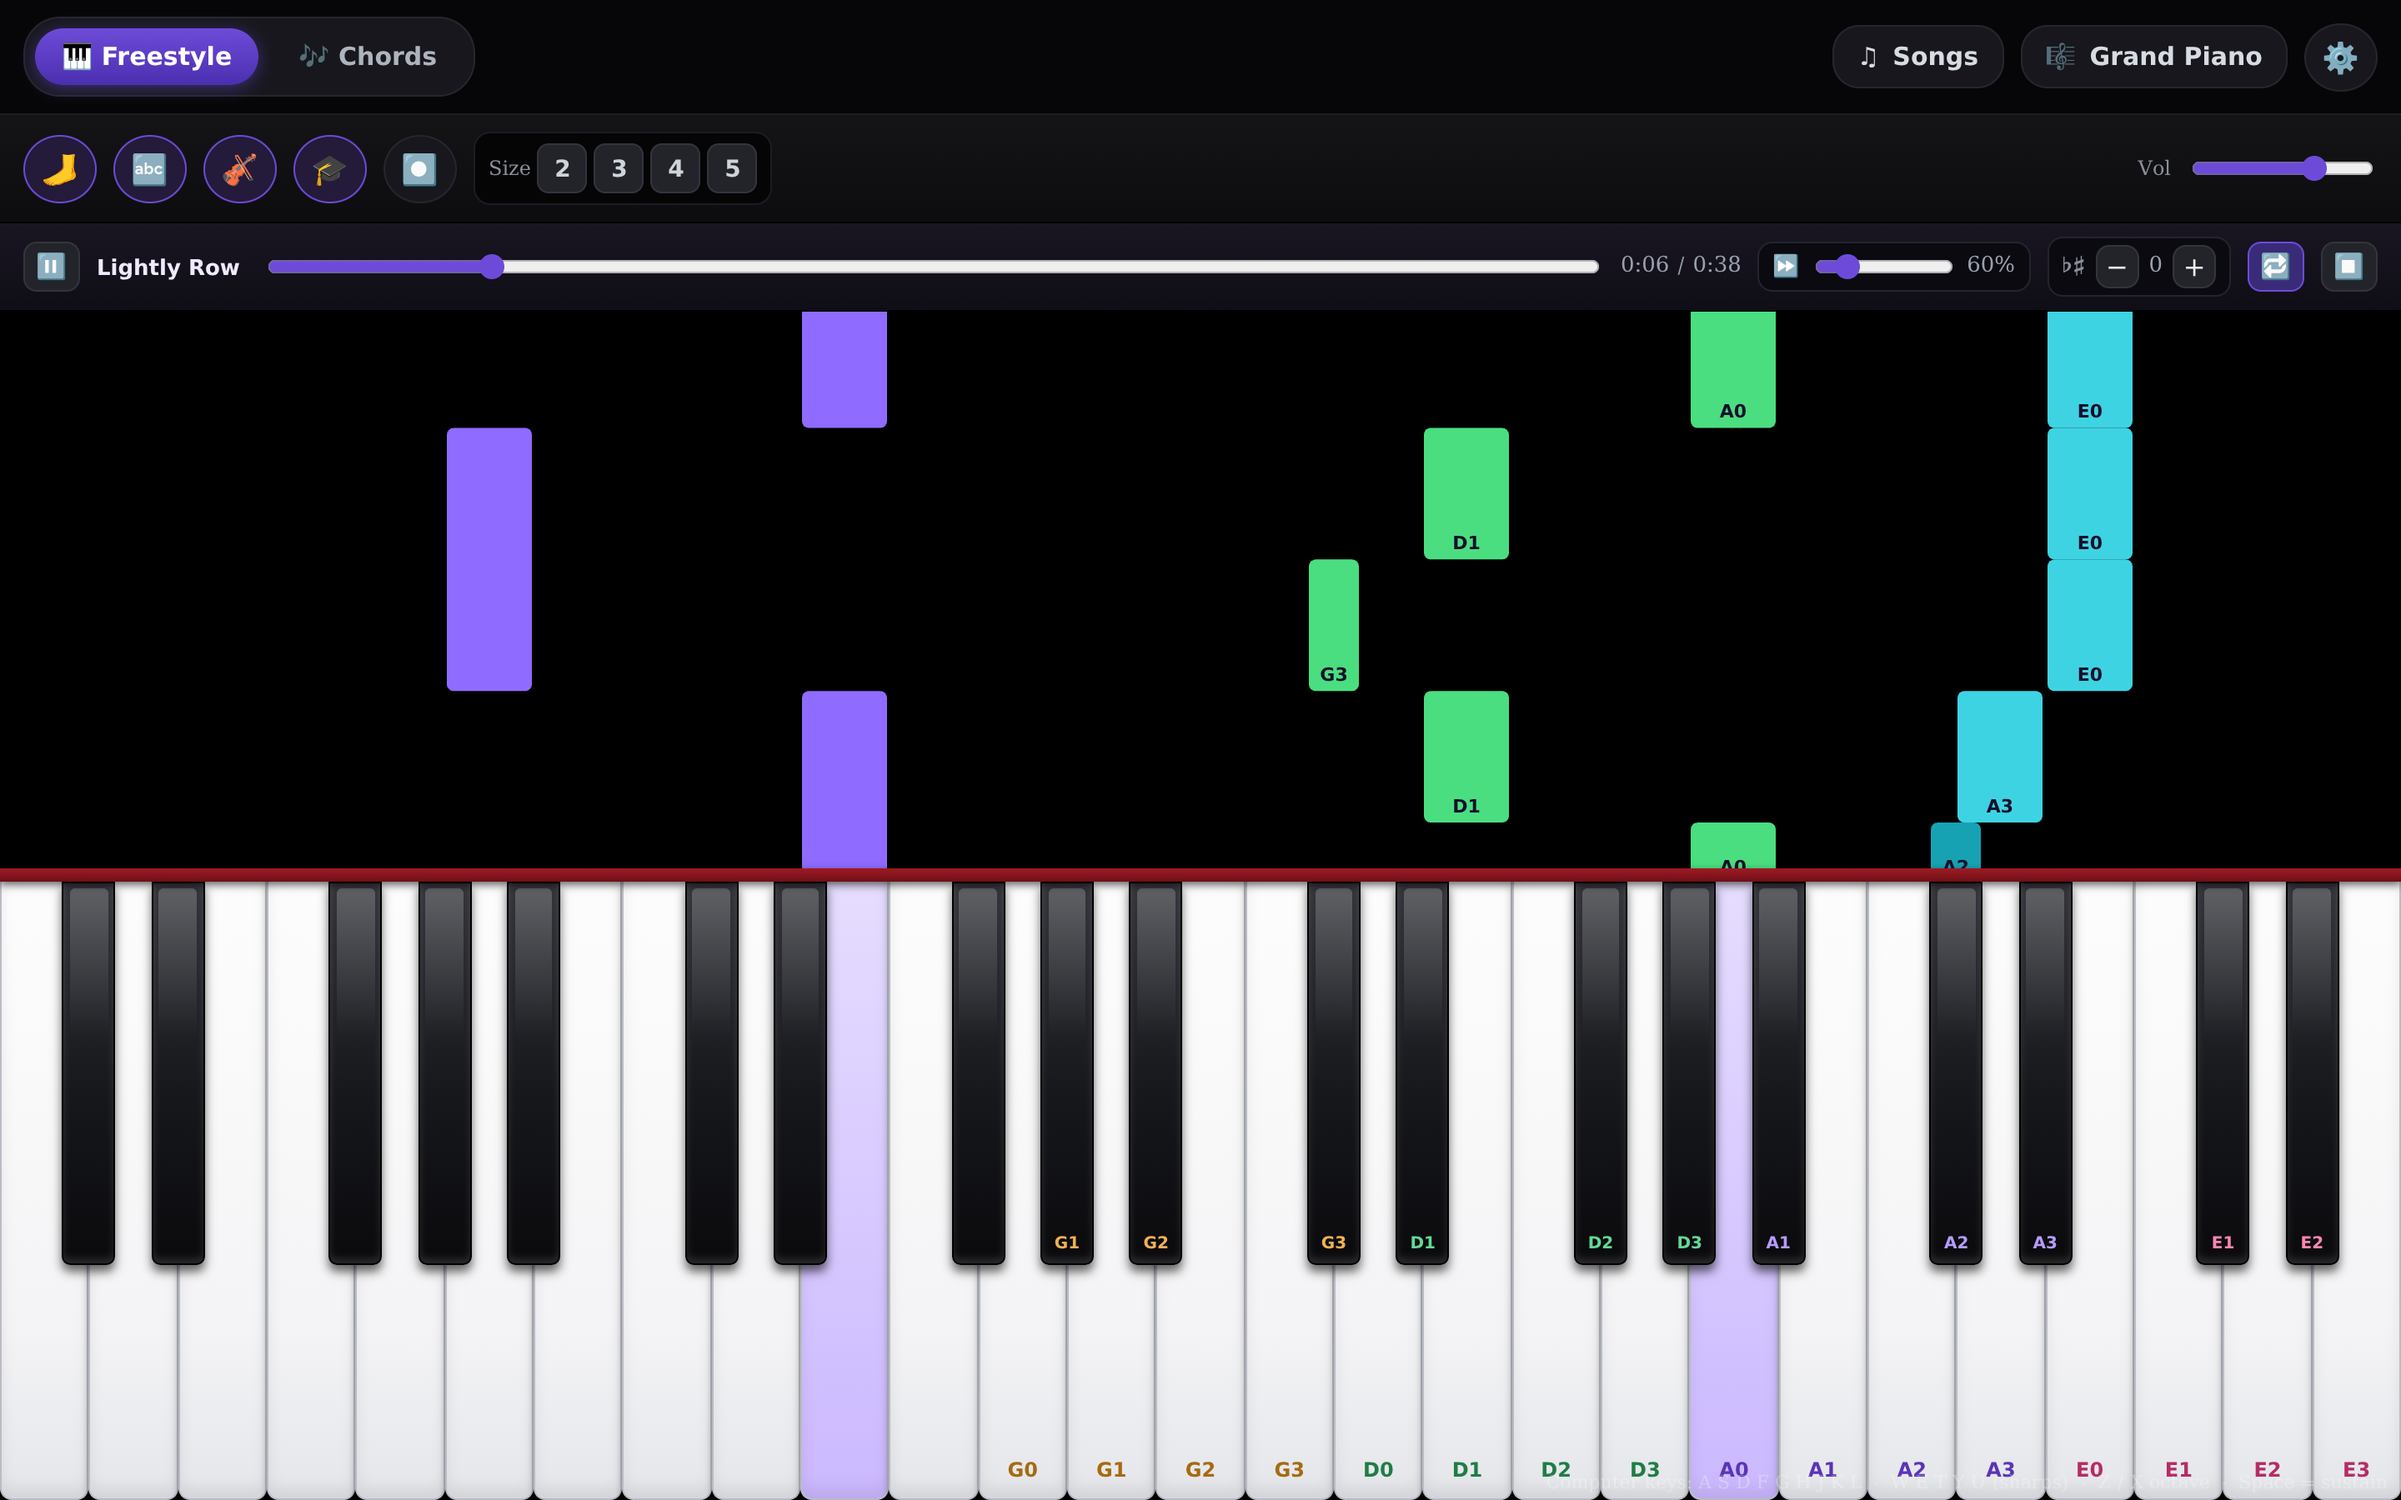
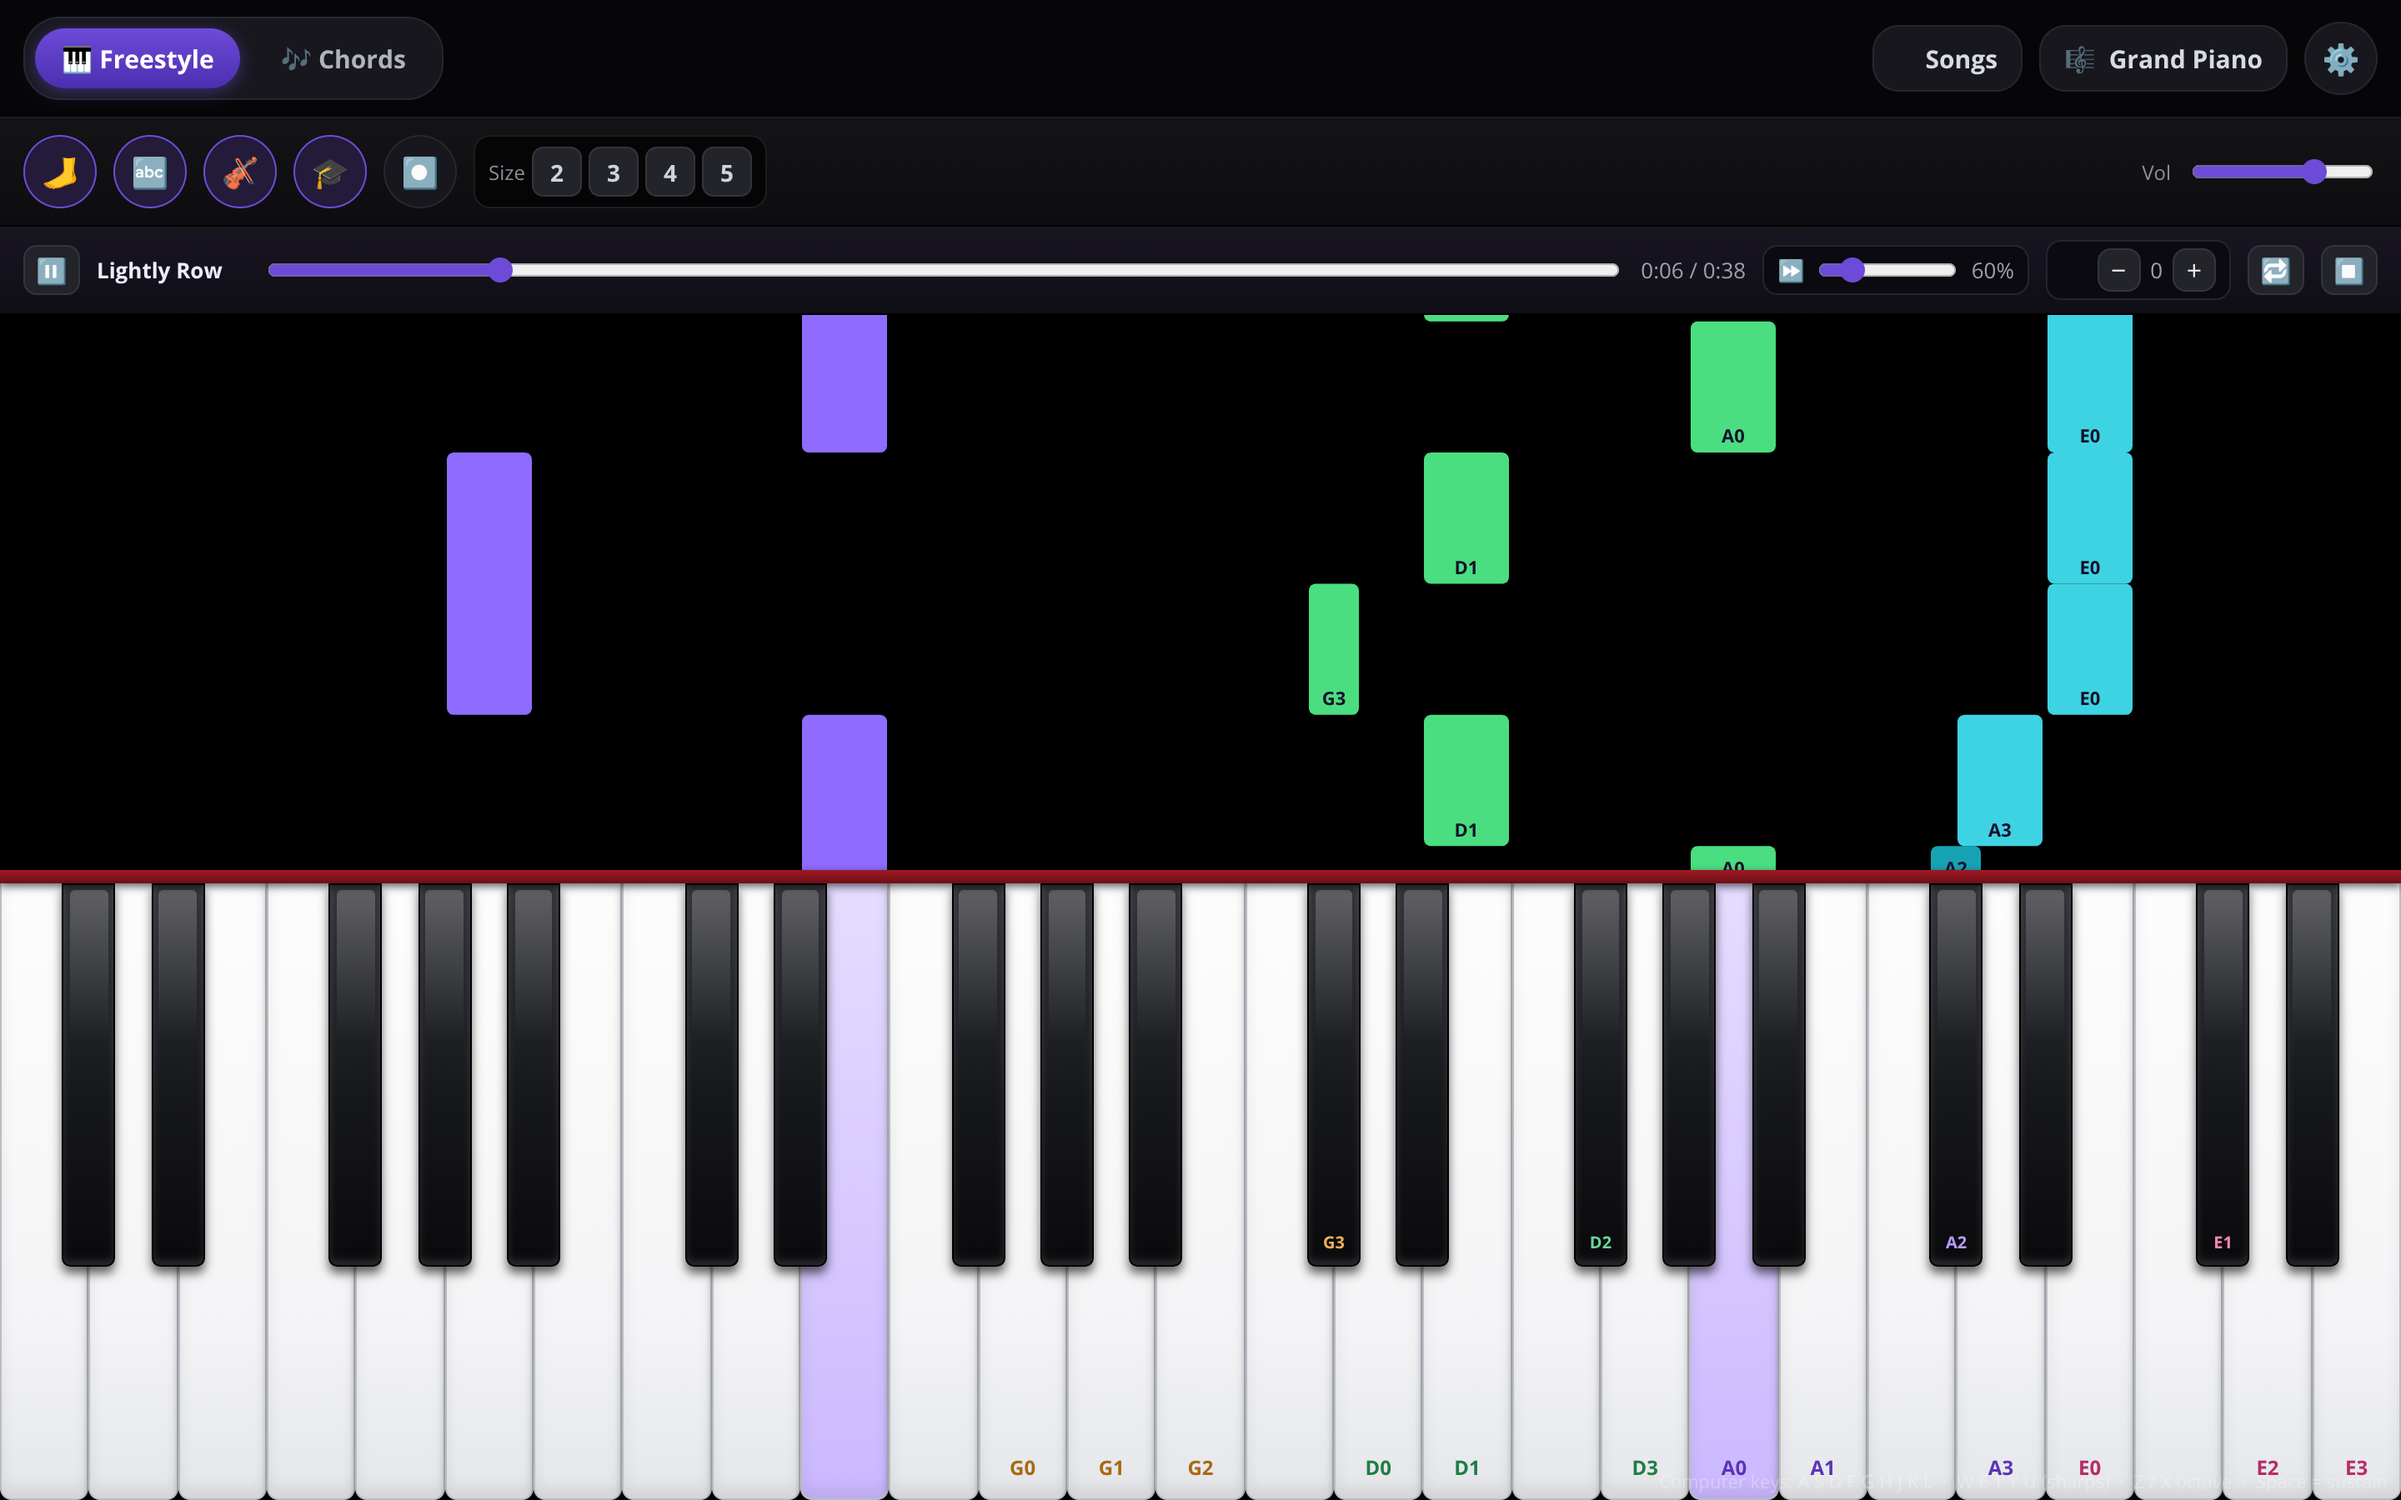
Label only first-position violin notes, not every chromatic key
violinFinger() used a low/high-finger semitone lookup that gave every key from
G3 to B5 a fingering label, duplicating finger numbers on the black keys
(A#4/C5/D#5 labelled A1/A2/A3). Replace it with an explicit table of the
sixteen first-position notes: four per string, e.g. A0=A, A1=B, A2=C#, A3=D
and E0=E, E1=F#, E2=G, E3=A. Notes outside that set stay unlabelled on both
the keys and the falling bars, so only the sharps that belong to the position
(C#, F#) keep a label.

Also refresh the violin-mode tooltip, README wording and hero screenshot, and
bump the service-worker cache so offline installs get the new labels.

diff --git a/index.html b/index.html
@@ -238,7 +238,7 @@
     <div id="toolbar">
         <div class="btn icon on" id="sustainBtn" title="Sustain (hold notes) — Space">🦶</div>
         <div class="btn icon" id="labelBtn" title="Toggle note labels">🔤</div>
-        <div class="btn icon" id="violinBtn" title="Violin mode — labels and falling notes show first-position fingering (A0 A1 A2 A3, E0 E1 E2 E3…)">🎻</div>
+        <div class="btn icon" id="violinBtn" title="Violin mode — keys and falling notes show first-position fingering (A0=A A1=B A2=C# A3=D, E0=E E1=F# E2=G E3=A…); notes outside the position stay blank">🎻</div>
         <div class="btn icon" id="learnBtn" title="Learn mode — notes fall onto the keys so you can play along">🎓</div>
         <div class="btn icon rec" id="recBtn" title="Record your playing">⏺</div>
         <div id="sizeSel" title="How many octaves to show">
@@ -514,12 +514,14 @@ let kbOctave = 4;                // base octave for computer-keyboard mapping
 // ---------------------------------------------------------------------------
 //  VIOLIN FINGERING — first position
 //
-//  The four strings are tuned in fifths, and in first position each one is
-//  covered by four fingers over the seven semitones up to the next string:
-//  finger 1 and 2 each have a low and a high placement (a half step apart),
-//  which is why 8 semitones map onto 5 labels. A note is named by the highest
-//  string that can reach it without leaving first position, so A4 is the open
-//  A ("A0") rather than a stopped note on D, and C#5 is "A2".
+//  Four notes per string: the open string plus three fingers. Those notes are
+//  the notes of the first-position scale, NOT every chromatic semitone up to
+//  the next string — A0 is A, A1 is B, A2 is C#, A3 is D, and E0 is E, E1 is
+//  F#, E2 is G, E3 is A. The in-between keys (A#, C natural, D#, …) have no
+//  finger of their own in this position, so they stay blank rather than
+//  borrowing a neighbour's label: a black key is labelled only when that
+//  sharp is one of the four notes (C# and F# here). Notes below the G string
+//  or above third finger on E stay blank too — no invented shifts.
 // ---------------------------------------------------------------------------
 const VIOLIN_STRINGS = [    // c = ink on white keys, cl = ink on black keys / falling bars
     { n: 'G', open: 55, c: '#a76a10', cl: '#f0b055' },
@@ -527,13 +529,20 @@ const VIOLIN_STRINGS = [    // c = ink on white keys, cl = ink on black keys / f
     { n: 'A', open: 69, c: '#5b34b8', cl: '#b79bff' },
     { n: 'E', open: 76, c: '#b62c66', cl: '#ff86b0' },
 ];
-const FINGER_OF = [0, 1, 1, 2, 2, 3, 3, 4];   // semitones above the open string -> finger
+// [midi, string index, finger] — the sixteen first-position notes, four per
+// string, running up the D-major scale from G3 to A5.
+const FIRST_POSITION = [
+    [55, 0, 0], [57, 0, 1], [59, 0, 2], [61, 0, 3],   // G3  A3  B3  C#4
+    [62, 1, 0], [64, 1, 1], [66, 1, 2], [67, 1, 3],   // D4  E4  F#4 G4
+    [69, 2, 0], [71, 2, 1], [73, 2, 2], [74, 2, 3],   // A4  B4  C#5 D5
+    [76, 3, 0], [78, 3, 1], [79, 3, 2], [81, 3, 3],   // E5  F#5 G5  A5
+];
+const VIOLIN_FINGERS = new Map(FIRST_POSITION.map(([midi, s, finger]) => {
+    const str = VIOLIN_STRINGS[s];
+    return [midi, { text: str.n + finger, c: str.c, cl: str.cl }];
+}));
 function violinFinger(midi) {
-    for (let i = VIOLIN_STRINGS.length - 1; i >= 0; i--) {
-        const s = VIOLIN_STRINGS[i], d = midi - s.open;
-        if (d >= 0 && d <= 7) return { text: s.n + FINGER_OF[d], c: s.c, cl: s.cl };
-    }
-    return null;            // below the G string or above first position — unlabelled
+    return VIOLIN_FINGERS.get(midi) || null;   // not a first-position note — unlabelled
 }
 
 // Labels are a view over the keys, so switching modes just rewrites them.

diff --git a/sw.js b/sw.js
@@ -1,6 +1,6 @@
 // Offline support: cache the app shell on install, serve cache-first, and
 // refresh the cache in the background when the network is available.
-const CACHE = 'piano-v10';
+const CACHE = 'piano-v11';
 const ASSETS = ['./', './index.html', './manifest.json', './icon.svg'];
 
 self.addEventListener('install', e => {

diff --git a/README.md b/README.md
@@ -12,7 +12,7 @@ A browser practice tool for piano and violin. Open a MIDI or MusicXML file, slow
 - **Tempo and loop.** 40–150% speed, seek anywhere, loop a range until the passage holds together.
 - **USB MIDI keyboard.** Web MIDI in Chrome and Edge; no driver, no install.
 - **Computer keyboard.** A–L play the white keys, W–U the sharps, Z/X shift octaves, and Space sustains — no hardware needed.
-- **Violin mode.** Labels every key and the falling notes by string and finger, first position — keys in string colours. On by default — hit 🎻 to switch it off.
+- **Violin mode.** Labels the first-position notes on the keys and falling bars by string and finger — in string colours. On by default — hit 🎻 to switch it off.
 - **Works offline.** Install it to your home screen; the service worker keeps it running without a network.
 - **Record and export.** Capture what you played and download it as a `.mid`.
 
@@ -22,11 +22,11 @@ MusicXML import handles chords, ties, voices, tempo changes and sustain pedal. R
 
 ## Violin mode
 
-The piano is the accompaniment, but the notes are still piano notes. Violin mode is on by default — every key and falling bar is labelled the way a violinist thinks: **G1**, **D3**, **A0** — string, then finger (hit 🎻 to switch it off). Notes outside first position stay unlabelled rather than inventing a shift that isn't there.
+The piano is the accompaniment, but the notes are still piano notes. Violin mode is on by default — keys and falling bars are labelled the way a violinist thinks: **G1**, **D3**, **A0** — string, then finger (hit 🎻 to switch it off). Notes outside first position stay unlabelled rather than inventing a shift that isn't there.
 
 ![Violin mode: falling notes labelled by string and finger; the piano accompaniment splits green (right hand) and purple (left hand)](docs/hero-violin.png)
 
-It shows first position only. It doesn't choose fingerings for you or read sheet music — it shows where the note sits, and you decide how to play it.
+First position is four notes per string — open string plus three fingers — not every chromatic key in between. On the A string that's A0 = A, A1 = B, A2 = C#, A3 = D; on the E string E0 = E, E1 = F#, E2 = G, E3 = A, and likewise G0–G3 and D0–D3 below them. Only those sixteen notes are labelled: the sharps that belong to the position (C#, F#) keep their labels, while the other black keys stay blank instead of borrowing a neighbour's finger number. It doesn't choose fingerings for you or read sheet music — it shows where the note sits, and you decide how to play it.
 
 The built-in pieces are arranged for duet: the violin line sounds through its own bowed synth (slow attack, vibrato, sawtooth stack), never lights the piano keys, and falls in cyan bars. Piano bars are split by hand using the score's grand staff — green for the treble staff (right hand), purple for the bass staff (left hand). MusicXML imports get the same treatment automatically: violin parts (by part/instrument name or GM program 41) are tagged as the bowed voice, and a part declaring `<staves>2</staves>` has its hands split the same way. Single-staff scores fall back to a middle-C split. At pitches both parts share, the violin takes the note under the bow.
 
